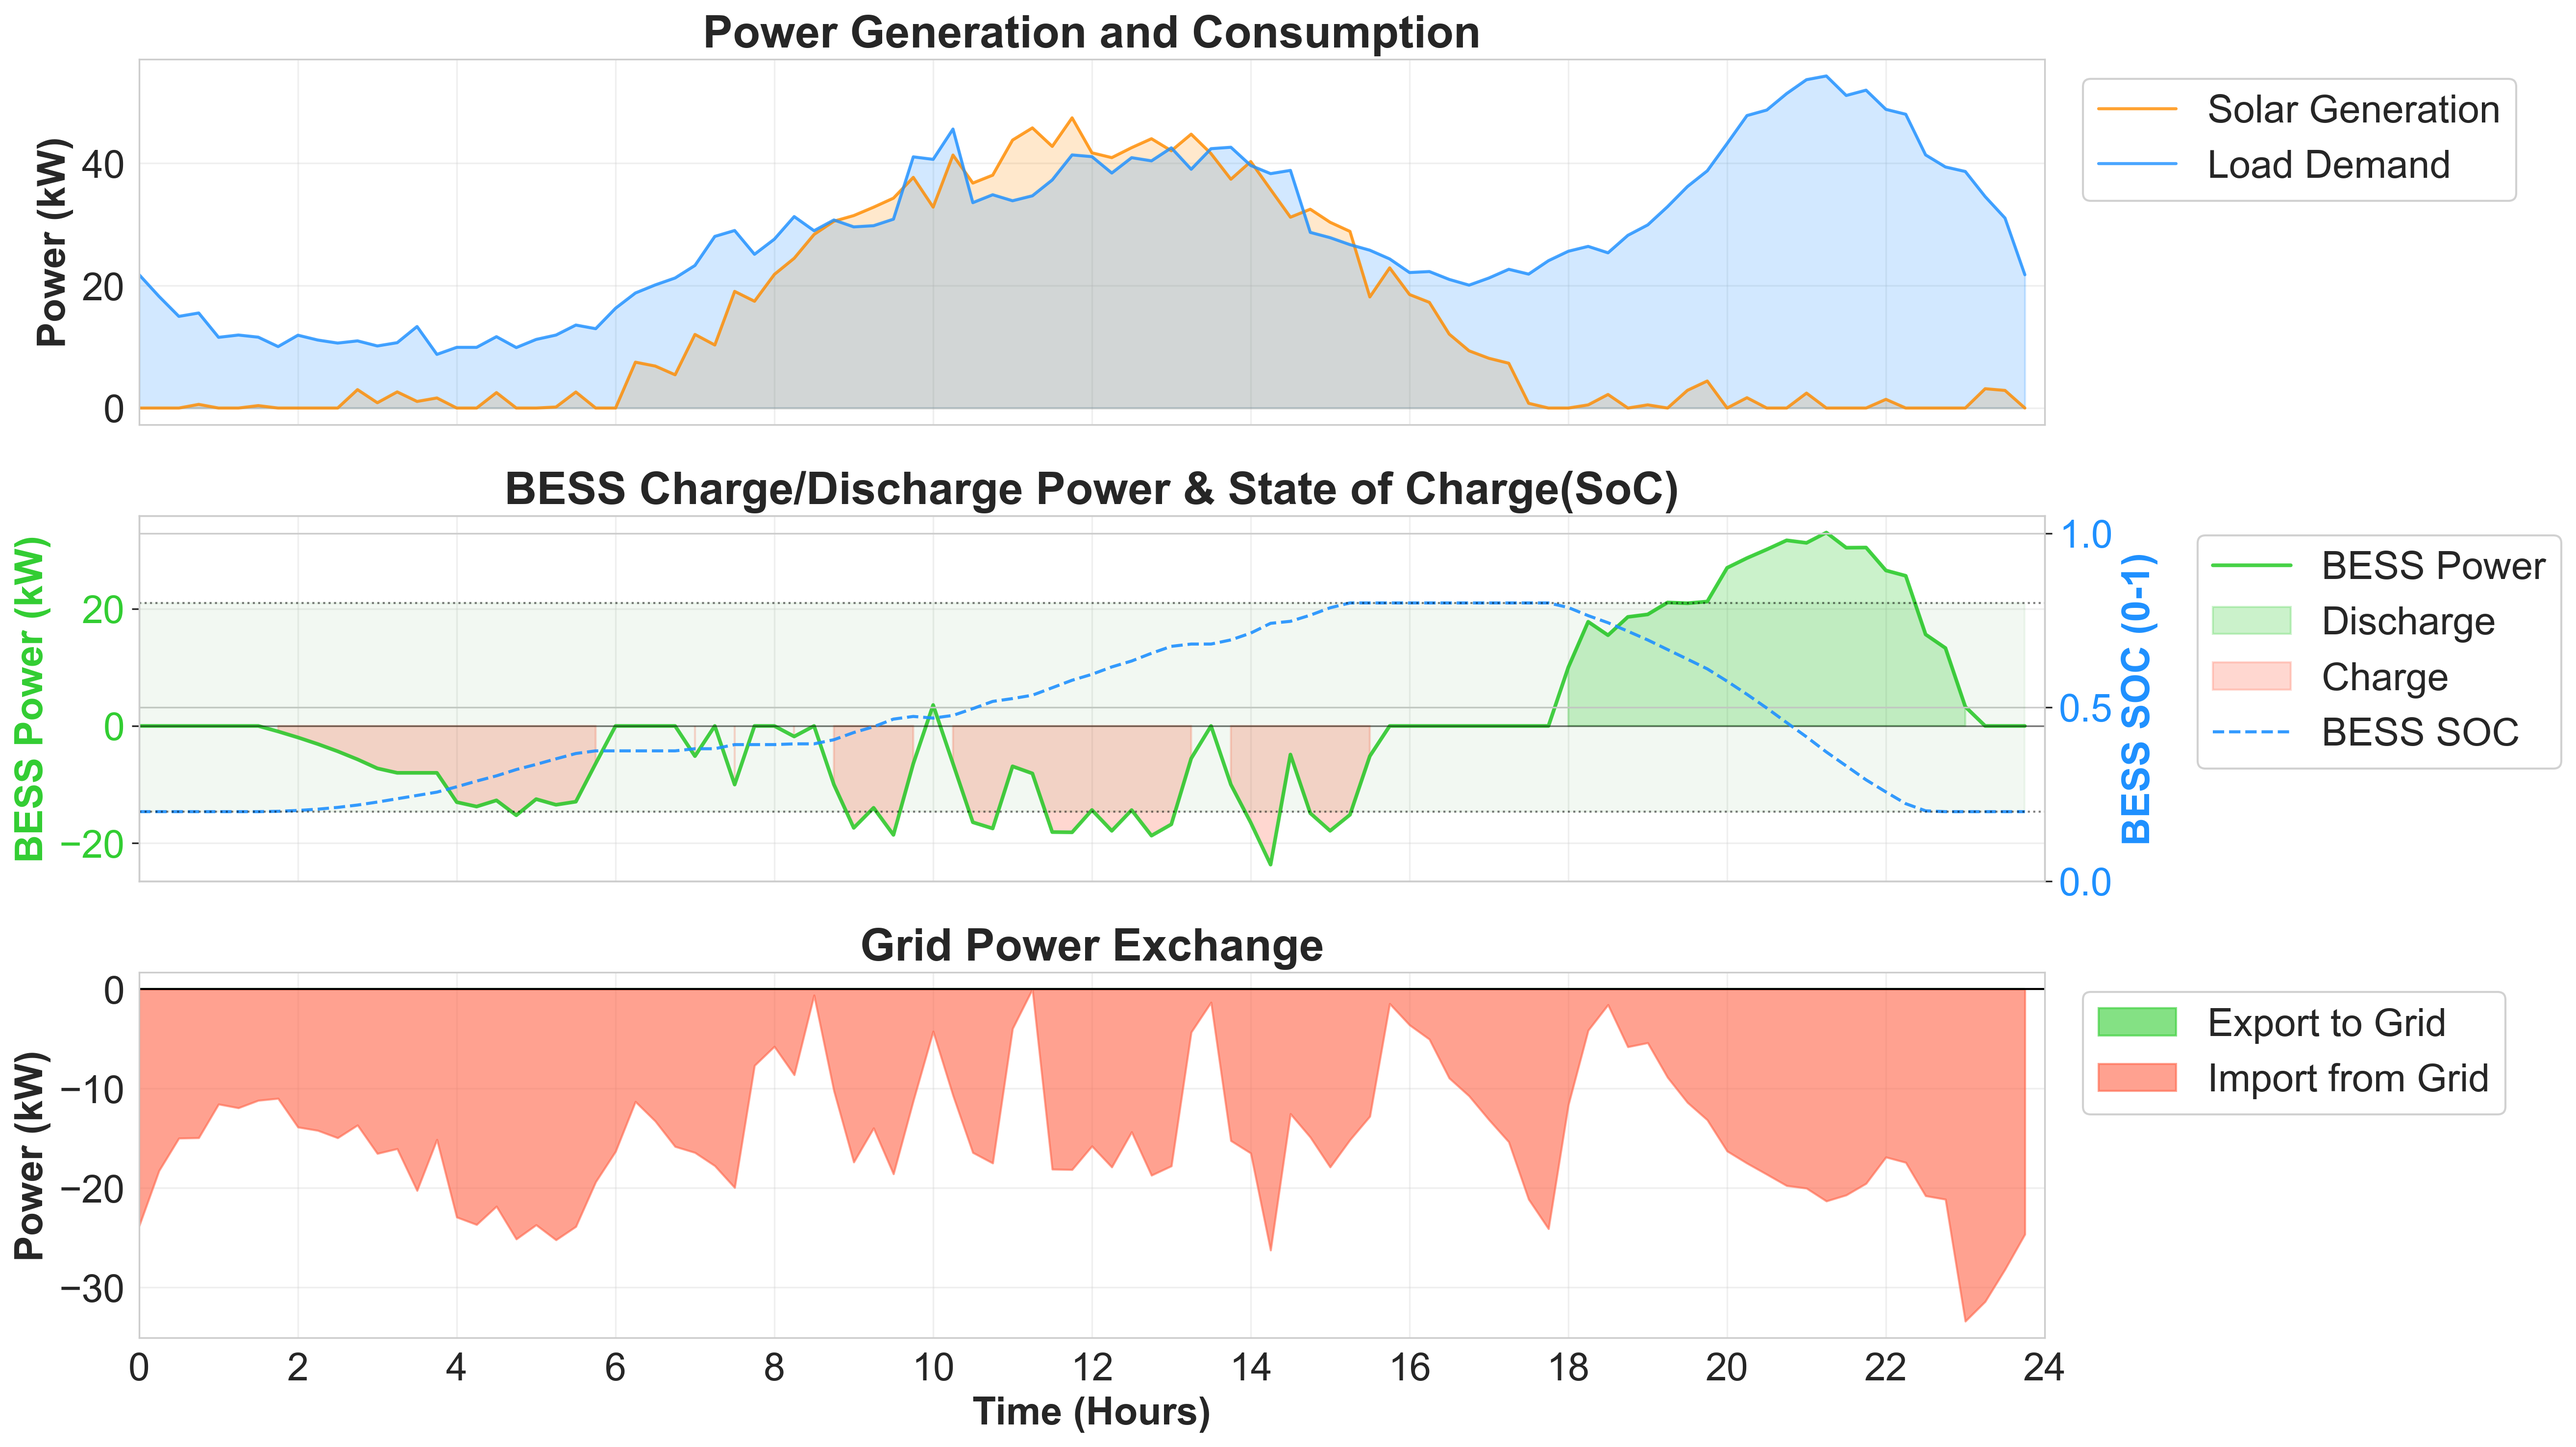
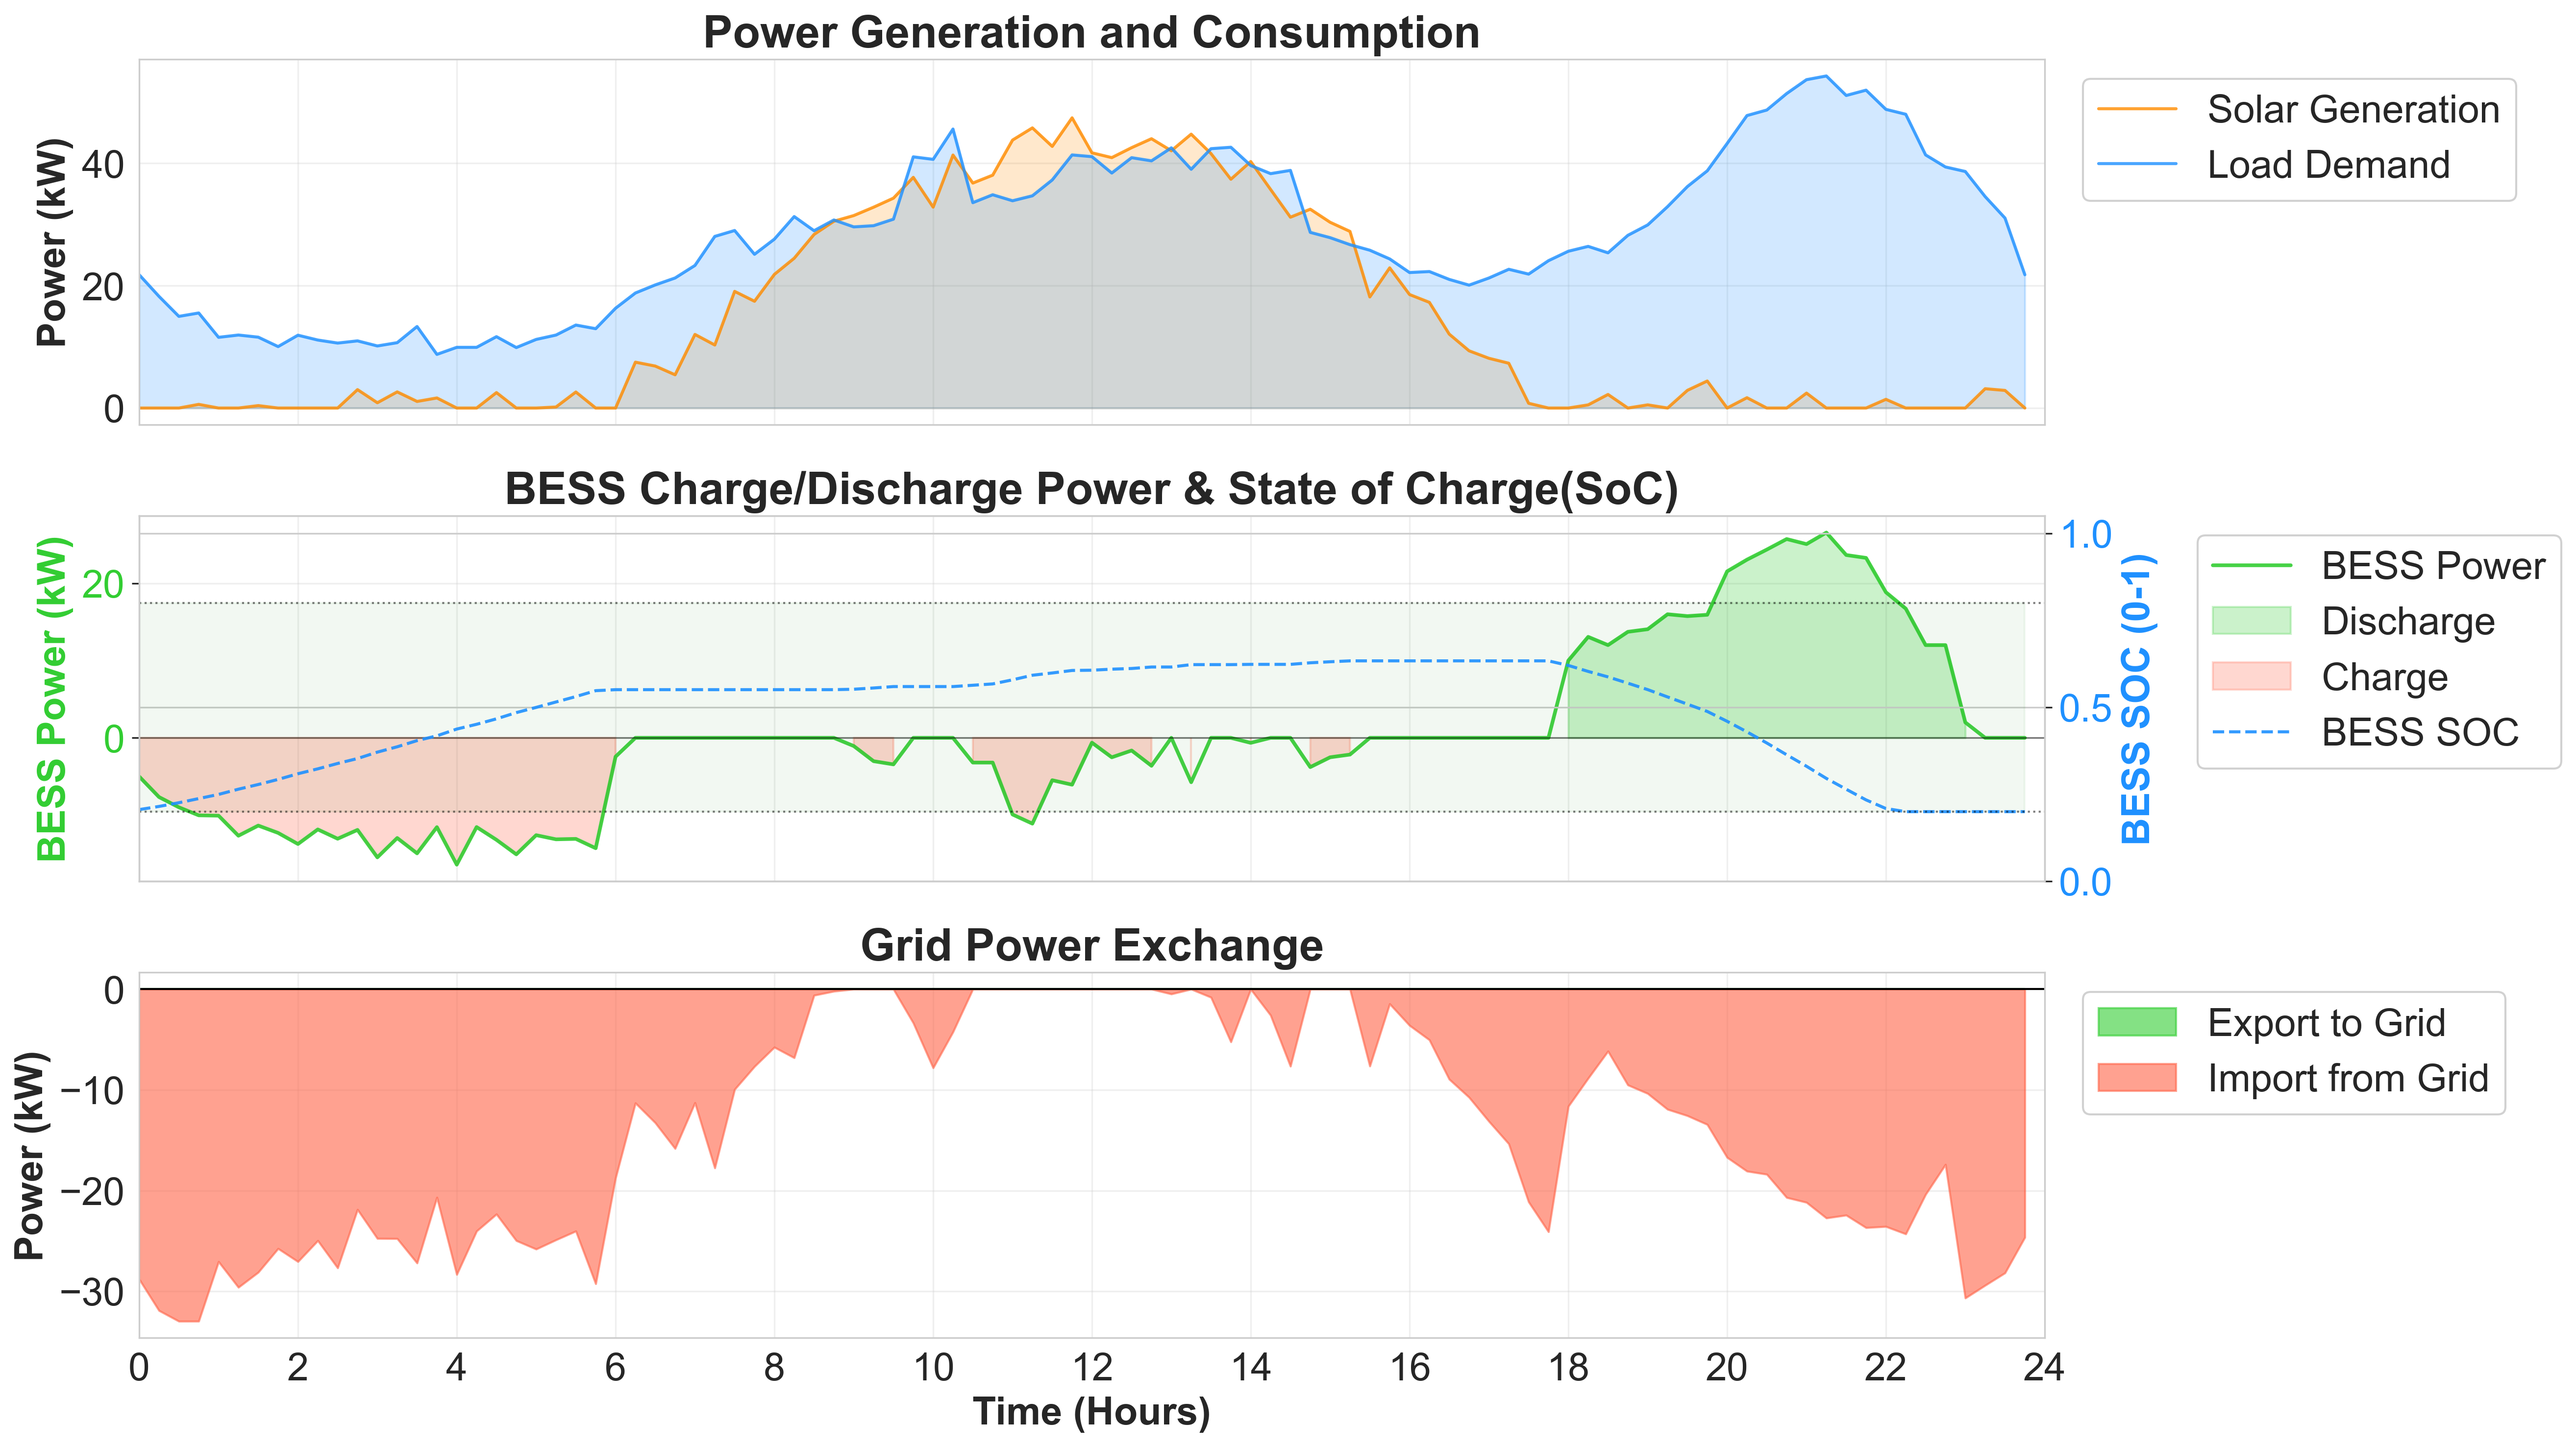
good

diff --git a/RL_agent/get_controlled_voltages.py b/RL_agent/get_controlled_voltages.py
@@ -28,7 +28,7 @@ from openDSS.run_opendss import VPPDSSRunner
 # ============================================================================
 # ⚙  CONFIGURATION - Change scenario here
 # ============================================================================
-#SCENARIO = "night_peak"  # Options: "night_peak", "daytime_peak", "solar_unavailable_day", "low_load_weekend"
+SCENARIO = None  # Options: "night_peak", "daytime_peak", "solar_unavailable_day", "low_load_weekend"
 # ============================================================================
 
 
@@ -268,7 +268,7 @@ def plot_comparison(scenario_name=SCENARIO):
     output_fig_pdf = output_dir / f"voltage_control_comparison_{scenario_name}.pdf"
     plt.tight_layout()
     plt.savefig(output_fig_png, dpi=300, bbox_inches='tight')
-    plt.savefig(output_fig_pdf, bbox_inches='tight')
+    #plt.savefig(output_fig_pdf, bbox_inches='tight')
     print(f"📊 Saved comparison plot to: {output_fig_png}")
     print(f"📊 Saved comparison plot to: {output_fig_pdf}")
     #plt.show()
@@ -322,7 +322,7 @@ def plot_bess_power_and_voltage(scenario_name=SCENARIO):
     output_fig_pdf = output_dir / f"bess_power_and_voltage_{scenario_name}.pdf"
     plt.tight_layout()
     plt.savefig(output_fig_png, dpi=300, bbox_inches='tight')
-    plt.savefig(output_fig_pdf, dpi=300, bbox_inches='tight')
+    #plt.savefig(output_fig_pdf, dpi=300, bbox_inches='tight')
     print(f"📊 Saved power-voltage plot to: {output_fig_png}")
     print(f"📊 Saved power-voltage plot to: {output_fig_pdf}")
     #plt.show()

diff --git a/RL_agent/vpp_env.py b/RL_agent/vpp_env.py
@@ -502,14 +502,18 @@ class UrbanVPPEnv(gym.Env):
                         desired_power = max(0, desired_power - excess * 0.8)
 
             # CONSTRAINT 8: BESS solar-charging uses available surplus
-            if is_bess and desired_power < 0 and 6 <= hour < 18 and remaining_solar_surplus > 0:
-                if self.soc[i] < 0.8:
+            if is_bess and desired_power < 0 and 6 <= hour < 18:
+                if remaining_solar_surplus > 0 and self.soc[i] < 0.8:
                     available_charge = min(
                         remaining_solar_surplus,
                         self._max_charge_power_from_headroom(self.soc[i], cap, p_max),
                     )
                     desired_power = -available_charge
                 else:
+                    # No solar surplus → grid-charging now pays the daytime
+                    # tariff (35 LKR) instead of the cheaper off-peak rate
+                    # (21 LKR). Block it; off-peak predictive charging
+                    # (hour < 6) already tops up the BESS before peak.
                     desired_power = 0.0
 
             # CONSTRAINT 9: Home battery daytime solar charging

diff --git a/RL_agent/plot_results.py b/RL_agent/plot_results.py
@@ -21,7 +21,7 @@ STATS_PATH = os.path.join(script_dir, "checkpoints", "best_model", "vecnormalize
 OUTPUT_DIR = os.path.join(os.path.dirname(script_dir), "results_plots")  # Where to save plots
 
 steps_to_plot = 96  # One day (15 min intervals)
-#SCENARIO_NAME = "solar_unavailable_day" # Set to same as train.py (e.g. "heatwave_day") or None for default
+SCENARIO_NAME = None # Set to same as train.py (e.g. "heatwave_day") or None for default
  
 # Node configuration
 SOLAR_NODE_INDICES = [3, 5, 7, 10, 11, 13, 15, 17, 18, 19, 20]

diff --git a/RL_agent/plot_training.py b/RL_agent/plot_training.py
@@ -193,7 +193,7 @@ def plot_multiple_runs(base_dir='./tensorboard_logs', output_dir='./results_plot
     #plt.savefig(output_file_pdf, format='pdf', bbox_inches='tight')
     #print(f"[OK] Saved comparison plot to '{output_file_pdf}'")
     
-    plt.show()
+    #plt.show()
 
 
 def main():
